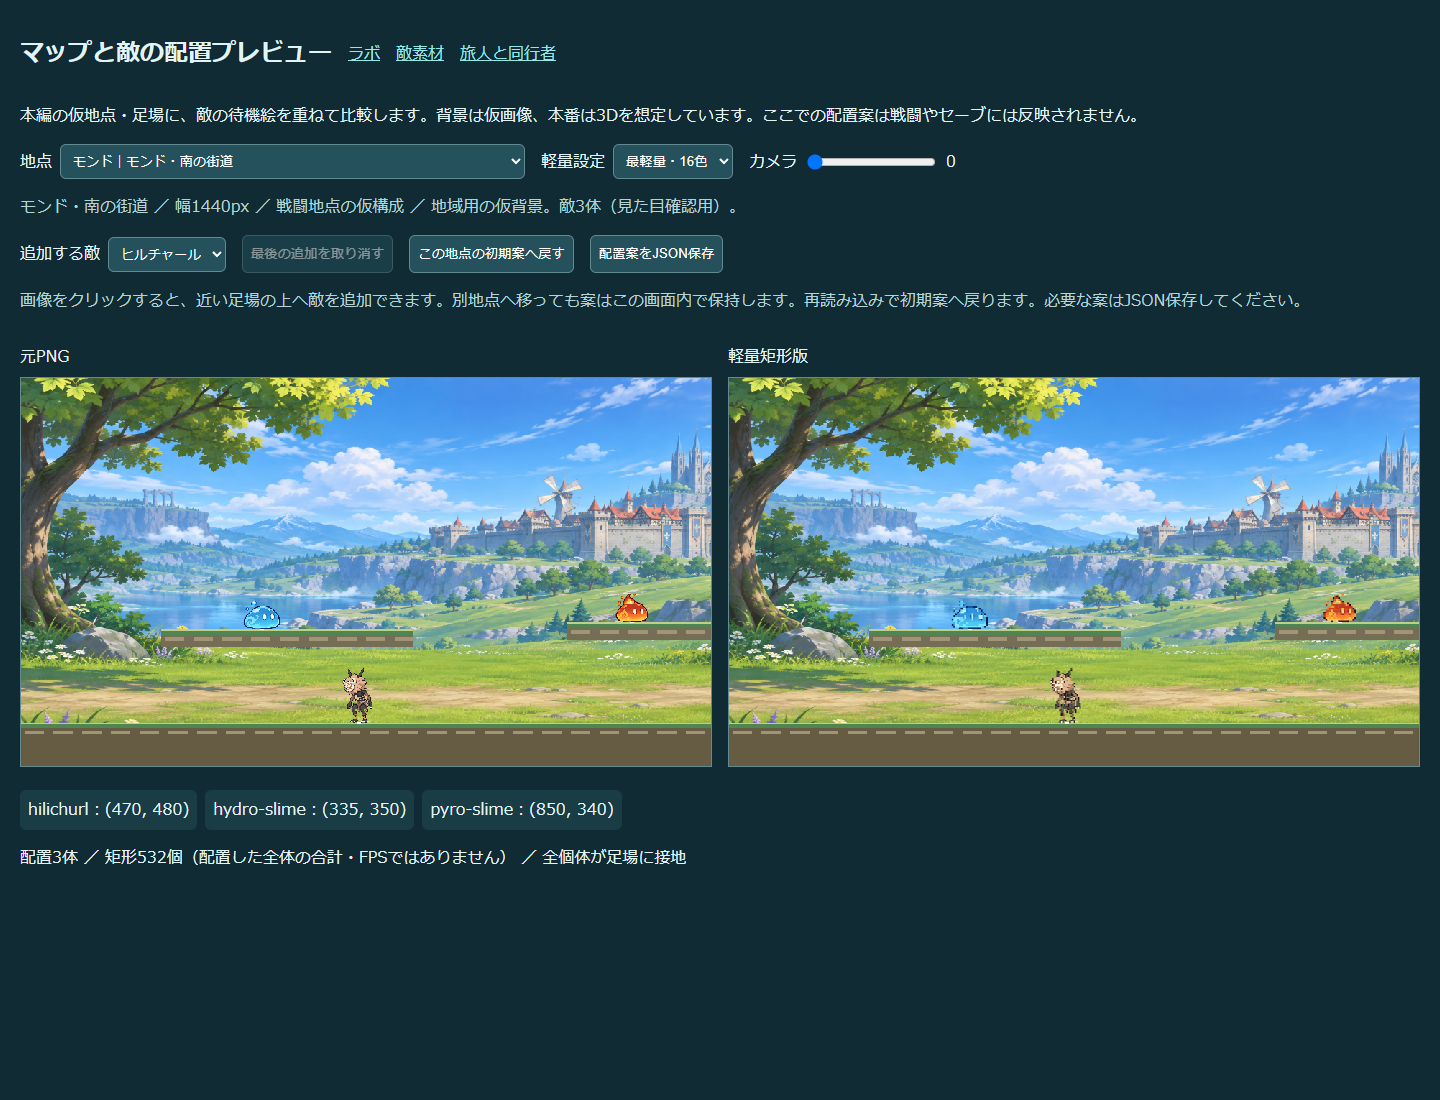
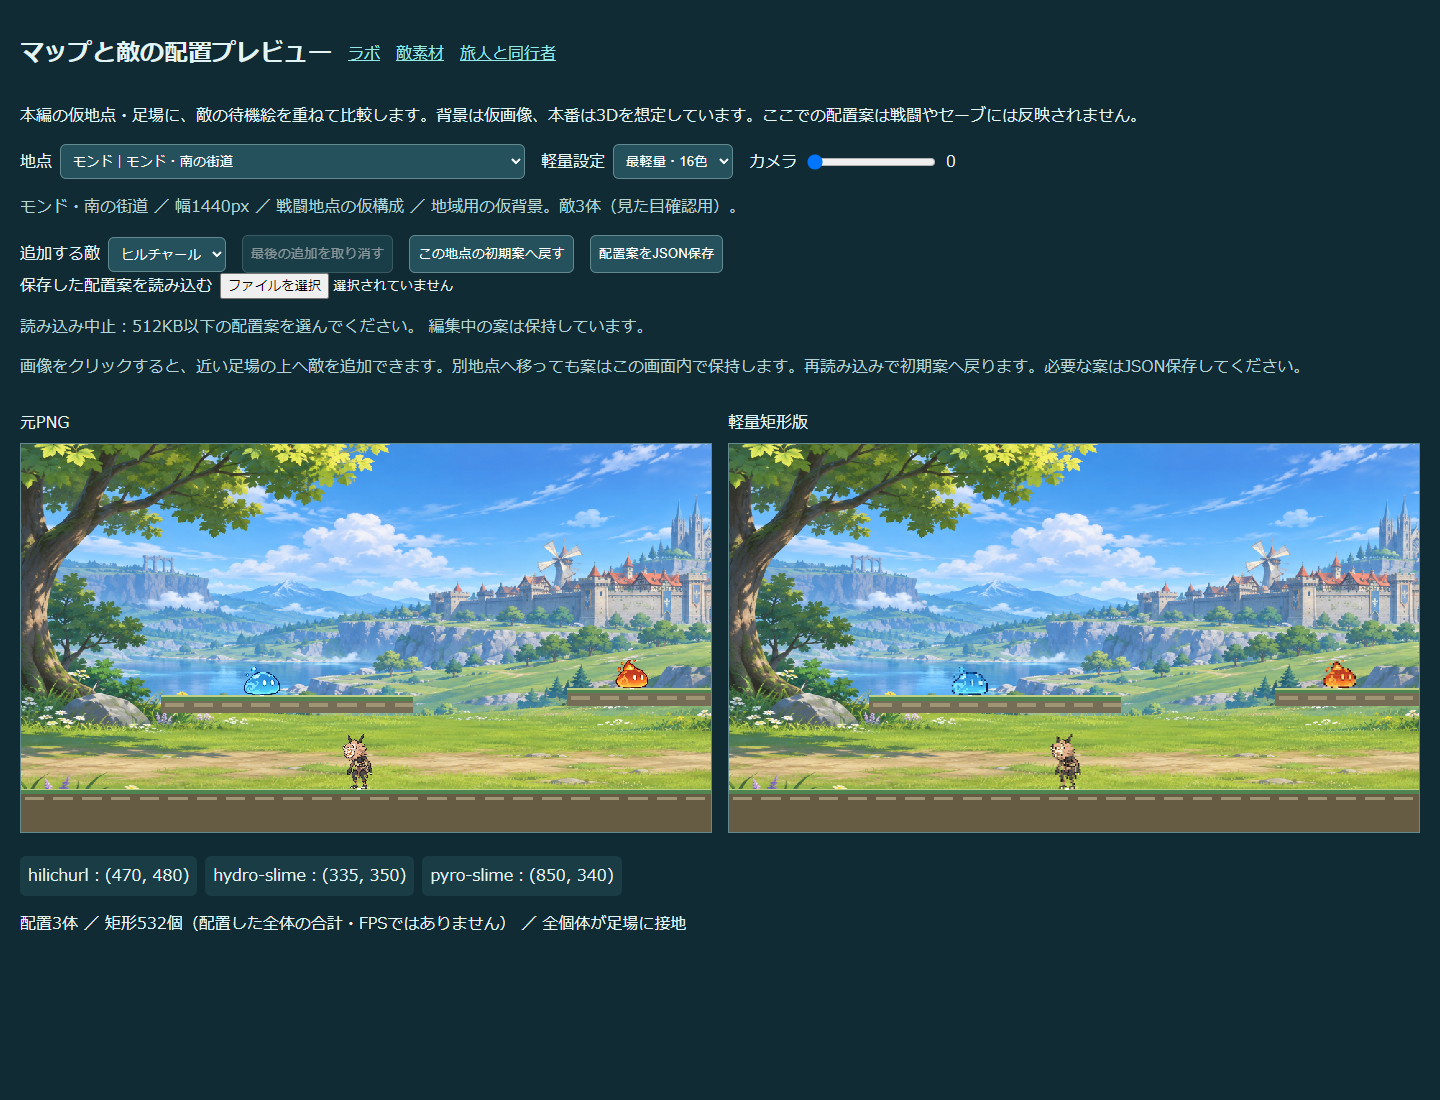
Support validated placement draft import and safe editing after reload

diff --git a/map-art.js b/map-art.js
@@ -1,12 +1,14 @@
 import {scenery,sceneryKey,sceneryDefinitions,backgroundReady} from './scenery.js';
+import {validatePlacementDraft,MAX_DRAFT_BYTES,MAX_NODE_PLACEMENTS,MAX_TOTAL_PLACEMENTS} from './placement-drafts.js';
 const $=id=>document.getElementById(id),assets={},histories={};
 async function json(path){const r=await fetch(path);if(!r.ok)throw Error(path);return r.json()}
 try{
  const [graph,initial,variants]=await Promise.all([json('content/story-graph.json'),json('content/enemy-placement-drafts.json'),json('assets/variants.json'),backgroundReady]);
- const drafts=structuredClone(initial),nodes=new Map(graph.nodes.map(n=>[n.id,n]));let serial=0;
+ let drafts=structuredClone(initial),serial=0,importTicket=0;const nodes=new Map(graph.nodes.map(n=>[n.id,n]));
  for(const [id,index] of [['hydro-slime',4],['pyro-slime',6]]){const profiles=Object.fromEntries(Object.entries(variants.variants).map(([k,v])=>[k,v.sprites[index]]));assets[id]={source:'atlas-transparent.png',box:profiles.legacy.box,profiles,h:40}}
  assets.hilichurl={...await json('assets/hilichurl-idle-sprites.json'),h:76};
  for(const data of Object.values(assets)){data.image=new Image();data.image.src='assets/'+data.source;await data.image.decode()}
+ drafts=validatePlacementDraft(drafts,graph,Object.keys(assets));
  for(const n of graph.nodes){const option=document.createElement('option');option.value=n.id;option.textContent=`${n.region}｜${n.name}`;$('node').append(option)}$('node').value='mond-road';
  function node(){return nodes.get($('node').value)}
  function placements(){return drafts.nodes[node().id]??=[]}
@@ -26,9 +28,22 @@ try{
  }
  function select(){const n=node();$('camera').max=Math.max(0,n.width-960);$('camera').value=0;render()}
  $('node').onchange=select;for(const id of ['camera','profile'])$(id).oninput=render;
- for(const mode of ['png','rect'])$(mode).onclick=event=>{const box=$(mode).getBoundingClientRect(),n=node(),x=Math.round((event.clientX-box.left)*960/box.width+Number($('camera').value)),y=(event.clientY-box.top)*540/box.height;const supports=n.platforms.filter(p=>x>=p.x&&x<=p.x+p.w).sort((a,b)=>Math.abs(a.y-y)-Math.abs(b.y-y));if(!supports.length)return;const item={id:`added-${++serial}`,species:$('species').value,x,y:supports[0].y,flip:false};placements().push(item);(histories[n.id]??=[]).push(item.id);render()};
+ for(const mode of ['png','rect'])$(mode).onclick=event=>{const box=$(mode).getBoundingClientRect(),n=node(),x=Math.round((event.clientX-box.left)*960/box.width+Number($('camera').value)),y=(event.clientY-box.top)*540/box.height;const supports=n.platforms.filter(p=>x>=p.x&&x<=p.x+p.w&&x<=n.width).sort((a,b)=>Math.abs(a.y-y)-Math.abs(b.y-y));if(!supports.length)return;
+  if(placements().length>=MAX_NODE_PLACEMENTS||Object.values(drafts.nodes).reduce((s,x)=>s+x.length,0)>=MAX_TOTAL_PLACEMENTS){$('fileStatus').textContent='配置数の上限です。別の案として保存してから編集してください。';return}
+  let id;do{id=`added-${++serial}`}while(placements().some(e=>e.id===id));const item={id,species:$('species').value,x,y:supports[0].y,flip:false};placements().push(item);(histories[n.id]??=[]).push(item.id);render()};
  $('undo').onclick=()=>{const id=histories[node().id]?.pop();if(id)drafts.nodes[node().id]=placements().filter(e=>e.id!==id);render()};
  $('reset').onclick=()=>{drafts.nodes[node().id]=structuredClone(initial.nodes[node().id]||[]);histories[node().id]=[];render()};
  $('export').onclick=()=>{const blob=new Blob([JSON.stringify(drafts,null,2)+'\n'],{type:'application/json'}),url=URL.createObjectURL(blob),a=document.createElement('a');a.href=url;a.download='enemy-placement-drafts.json';a.click();setTimeout(()=>URL.revokeObjectURL(url),1000)};
+ $('import').onchange=async()=>{
+  const file=$('import').files[0],ticket=++importTicket;if(!file)return;
+  try{
+   if(file.size>MAX_DRAFT_BYTES)throw Error('512KB以下の配置案を選んでください。');
+   const text=await file.text();if(ticket!==importTicket)return;
+   let parsed;try{parsed=JSON.parse(text)}catch{throw Error('JSONを読み取れませんでした。')}
+   const next=validatePlacementDraft(parsed,graph,Object.keys(assets));drafts=next;for(const id of Object.keys(histories))delete histories[id];
+   render();$('fileStatus').textContent=`${file.name}を読み込みました。全地点の編集案を置き換えました。`;
+  }catch(e){if(ticket===importTicket)$('fileStatus').textContent=`読み込み中止：${e.message} 編集中の案は保持しています。`}
+  finally{if(ticket===importTicket)$('import').value=''}
+ };
  select();
 }catch(e){$('status').textContent='読み込みに失敗しました: '+e.message;throw e}

diff --git a/map-art.html b/map-art.html
@@ -1,9 +1,10 @@
 <!doctype html><html lang="ja"><meta charset="utf-8"><meta name="viewport" content="width=device-width,initial-scale=1"><title>マップと敵の配置プレビュー</title>
-<style>body{margin:20px;background:#102b33;color:#e3f4f4;font:16px sans-serif}a{color:#94e8e5}header,.controls{display:flex;gap:16px;align-items:center;flex-wrap:wrap}h1{font-size:24px}select{min-width:0}select,button{padding:8px;background:#24515b;color:white;border:1px solid #638991;border-radius:6px;max-width:100%}label{max-width:100%;min-width:0;display:flex;gap:8px;align-items:center;flex-wrap:wrap}main{display:grid;grid-template-columns:repeat(auto-fit,minmax(min(100%,480px),1fr));gap:16px}figure{margin:16px 0}canvas{width:100%;image-rendering:pixelated;border:1px solid #638991;box-sizing:border-box}figcaption{margin-bottom:8px}.note{color:#b4d3d5}input[type=range]{max-width:100%}#placements{display:flex;gap:8px;flex-wrap:wrap}#placements span{padding:8px;background:#193c45;border-radius:6px}button:disabled{opacity:.5}</style>
+<style>body{margin:20px;background:#102b33;color:#e3f4f4;font:16px sans-serif}a{color:#94e8e5}header,.controls{display:flex;gap:16px;align-items:center;flex-wrap:wrap}h1{font-size:24px}select{min-width:0}select,button{padding:8px;background:#24515b;color:white;border:1px solid #638991;border-radius:6px;max-width:100%}label{max-width:100%;min-width:0;display:flex;gap:8px;align-items:center;flex-wrap:wrap}main{display:grid;grid-template-columns:repeat(auto-fit,minmax(min(100%,480px),1fr));gap:16px}figure{margin:16px 0}canvas{width:100%;image-rendering:pixelated;border:1px solid #638991;box-sizing:border-box}figcaption{margin-bottom:8px}.note{color:#b4d3d5}input{max-width:100%;min-width:0}#placements{display:flex;gap:8px;flex-wrap:wrap}#placements span{padding:8px;background:#193c45;border-radius:6px}button:disabled{opacity:.5}</style>
 <header><h1>マップと敵の配置プレビュー</h1><a href="index.html">ラボ</a><a href="enemies-art.html">敵素材</a><a href="characters-art.html">旅人と同行者</a></header>
 <p>本編の仮地点・足場に、敵の待機絵を重ねて比較します。背景は仮画像、本番は3Dを想定しています。ここでの配置案は戦闘やセーブには反映されません。</p>
 <div class="controls"><label>地点 <select id="node"></select></label><label>軽量設定 <select id="profile"><option value="legacy">標準</option><option value="h48c32">中間・32色</option><option value="h32c16" selected>最軽量・16色</option></select></label><label>カメラ <input id="camera" type="range" min="0" value="0" step="1"><output id="cameraValue">0</output></label></div>
 <p id="context" class="note"></p><div class="controls"><label>追加する敵 <select id="species"><option value="hilichurl">ヒルチャール</option><option value="hydro-slime">水スライム</option><option value="pyro-slime">炎スライム</option></select></label><button id="undo">最後の追加を取り消す</button><button id="reset">この地点の初期案へ戻す</button><button id="export">配置案をJSON保存</button></div>
+<label>保存した配置案を読み込む <input id="import" type="file" accept=".json,application/json"></label><p id="fileStatus" role="status" class="note">読み込むと全地点の編集案を置き換えます。必要な案は先にJSON保存してください。</p>
 <p class="note">画像をクリックすると、近い足場の上へ敵を追加できます。別地点へ移っても案はこの画面内で保持します。再読み込みで初期案へ戻ります。必要な案はJSON保存してください。</p>
 <main><figure><figcaption>元PNG</figcaption><canvas id="png" width="960" height="540"></canvas></figure><figure><figcaption>軽量矩形版</figcaption><canvas id="rect" width="960" height="540"></canvas></figure></main>
 <div id="placements"></div><p id="status" role="status">読み込み中</p><script type="module" src="map-art.js"></script></html>

diff --git a/placement-drafts.js b/placement-drafts.js
@@ -1,0 +1,21 @@
+export const MAX_DRAFT_BYTES=512*1024;
+export const MAX_NODE_PLACEMENTS=128;
+export const MAX_TOTAL_PLACEMENTS=1024;
+export function validatePlacementDraft(input,graph,species){
+ const object=v=>v!==null&&typeof v==='object'&&!Array.isArray(v);
+ if(!object(input)||input.version!==1||!object(input.nodes))throw Error('対応する配置案JSON（version 1）を選んでください。');
+ const known=new Map(graph.nodes.map(n=>[n.id,n])),allowed=new Set(species),nodes={};let total=0;
+ for(const [id,items] of Object.entries(input.nodes)){
+  const node=known.get(id);if(!node)throw Error(`不明な地点です: ${id}`);
+  if(!Array.isArray(items)||items.length>MAX_NODE_PLACEMENTS)throw Error(`${id}: 1地点の配置は${MAX_NODE_PLACEMENTS}体までです。`);
+  total+=items.length;if(total>MAX_TOTAL_PLACEMENTS)throw Error(`全地点の配置は${MAX_TOTAL_PLACEMENTS}体までです。`);
+  const ids=new Set();nodes[id]=items.map(e=>{
+   if(!object(e)||typeof e.id!=='string'||!/^[a-zA-Z0-9_-]{1,80}$/.test(e.id)||ids.has(e.id))throw Error(`${id}: 個体IDが不正または重複しています。`);ids.add(e.id);
+   if(!allowed.has(e.species))throw Error(`${id}: 未対応の敵種です。`);
+   if(!Number.isFinite(e.x)||!Number.isFinite(e.y)||e.x<0||e.x>node.width||typeof e.flip!=='boolean')throw Error(`${id}: 座標または向きが不正です。`);
+   if(!node.platforms.some(p=>p.y===e.y&&e.x>=p.x&&e.x<=p.x+p.w))throw Error(`${id}: 足場に接地していない個体があります。`);
+   return {id:e.id,species:e.species,x:e.x,y:e.y,flip:e.flip};
+  });
+ }
+ return {version:1,status:'visual-only draft; not canonical spawn geography or live combat placement',nodes};
+}
